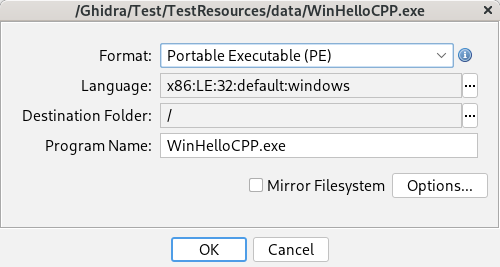
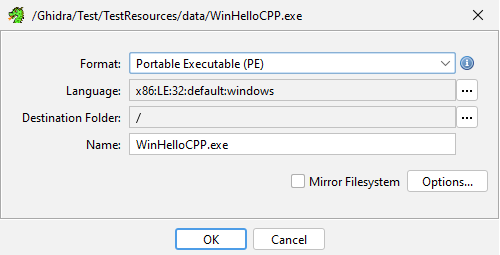
GP-6896: ImporterDialog 'Program Name' to 'Name' label change

Changed region(s): [[0.0, 0.0, 1.0, 0.4941], [0.09, 0.4941, 0.99, 0.7686], [0.0, 0.851, 1.0, 0.9882]]

diff --git a/Ghidra/Features/Base/src/main/help/help/topics/ImporterPlugin/importer.htm b/Ghidra/Features/Base/src/main/help/help/topics/ImporterPlugin/importer.htm
@@ -16,8 +16,8 @@
 
     <BLOCKQUOTE>
       <BLOCKQUOTE>
-        <P>Ghidra can import a variety of different types of files into a Ghidra project as Ghidra
-        "programs." There are separate actions for importing single files, importing multiple
+        <P>Ghidra can import a variety of different types of files into a Ghidra project.
+        There are separate actions for importing single files, importing multiple
         files, and importing a file into an existing program. The actions for importing single or
         multiple files into a new program are available in both the front-end project window or the
         CodeBrowser tool. The action for adding to an existing program is only available from the
@@ -87,7 +87,7 @@
 
           <LI>Press OK from the <A href="#Importer_Dialog">Importer Dialog</A> to perform the import.</LI>
 
-          <LI>A results summary dialog will appear and, if successful, the new program will appear
+          <LI>A results summary dialog will appear and, if successful, the imported file will appear
           in the project window and if initiated from a CodeBrowser tool, it will be opened in the
           tool.</LI>
         </UL>
@@ -99,7 +99,7 @@
 	          onto the Ghidra Project Tree destination folder.  Dropping onto the table view is not
 	          supported.  In the case of Ghidra Zip File (GZF), Ghidra Zip Debugger Trace file (GZT),
 			  or Ghidra Data Type Archive (GDT) file
-	          imports, an immediate unpack can be performed wthout a popup dialog if the Front End option
+	          imports, an immediate unpack can be performed without a popup dialog if the Front End option
 	          <I>Enable simple GZF/GZT/GDT unpack</I> is enabled (
 	          <B>Edit<IMG src="help/shared/arrow.gif">Tool Options...<IMG src="help/shared/arrow.gif">
 				File Import<IMG src="help/shared/arrow.gif">Enable simple GZF/GZT/GDT unpack</B>).
@@ -114,7 +114,7 @@
 	
 	          <LI>Press OK to initiate the import.</LI>
 	
-	          <LI>A results summary dialog will appear and, if successful, the new program will appear
+	          <LI>A results summary dialog will appear and, if successful, the newly imported file will appear
 	          in the project window and if initiated from a CodeBrowser tool, it will be opened in the
 	          tool.</LI>
 	        </UL>
@@ -266,20 +266,20 @@
           file without any interpretation.</LI><BR>
 
           <LI><B>Language</B> - This field specifies the language/compiler specification that will
-          be used in the resulting program. Often, this will be automatically detected from the
+          be used when importing a program. Often, this will be automatically detected from the
           file format. The <A href="#language_picker_dialog">Language/Compiler Spec Chooser
           Dialog</A> can be used to enter or change the language/compiler spec that will be
           used.</LI><BR>
 
           <LI><B>Destination Folder</B> - This field is used to specify the destination folder
-          within the current project for where the newly imported program will be saved. If a
+          within the current project for where the newly imported file will be saved. If a
           folder is selected in the front-end project window, then this field will default to that
           folder, otherwise the root folder will be the default. The <B>...</B> will bring up a
           dialog for changing the destination folder.</LI><BR>
 
-          <LI><B>Program Name</B> - This field specifies the name for the newly imported file into
+          <LI><B>Name</B> - This field specifies the name for the newly imported file into
 			the active project.
-          By default, it will be the name of the imported file with any format specific extenstion
+          By default, it will be the name of the imported file with any format specific extension
           removed (e.g., .xml, .gzf, .gzt, .gdt).  Path information at the beginning of this field
           will be used to create a destination folder in the current project under the root folder
           specified by the <B>Destination Folder</B> field.</LI><BR>
@@ -827,7 +827,7 @@
 
       <BLOCKQUOTE>
         <P>This dialog is used specify of the Ghidra language (Processor/Compiler Spec) of the
-        program being imported. Certain formats, like "PE", "ELF", or "XML", will usually choose
+        file being imported. Certain formats, like "PE", "ELF", or "XML", will usually choose
         the appropriate language/compiler spec. If not, this dialog can be used to select one or
         override the default selection.</P>
         <BR>

diff --git a/Ghidra/Features/Base/src/main/java/ghidra/plugin/importer/ImporterDialog.java b/Ghidra/Features/Base/src/main/java/ghidra/plugin/importer/ImporterDialog.java
@@ -177,7 +177,7 @@ public class ImporterDialog extends DialogComponentProvider {
 		panel.add(buildFolderNameField());
 		panel.add(buildFolderNameBrowseButton());
 
-		panel.add(new GLabel("Program Name: ", SwingConstants.RIGHT));
+		panel.add(new GLabel("Name: ", SwingConstants.RIGHT));
 		panel.add(buildNameTextField());
 		panel.add(new JLabel());
 